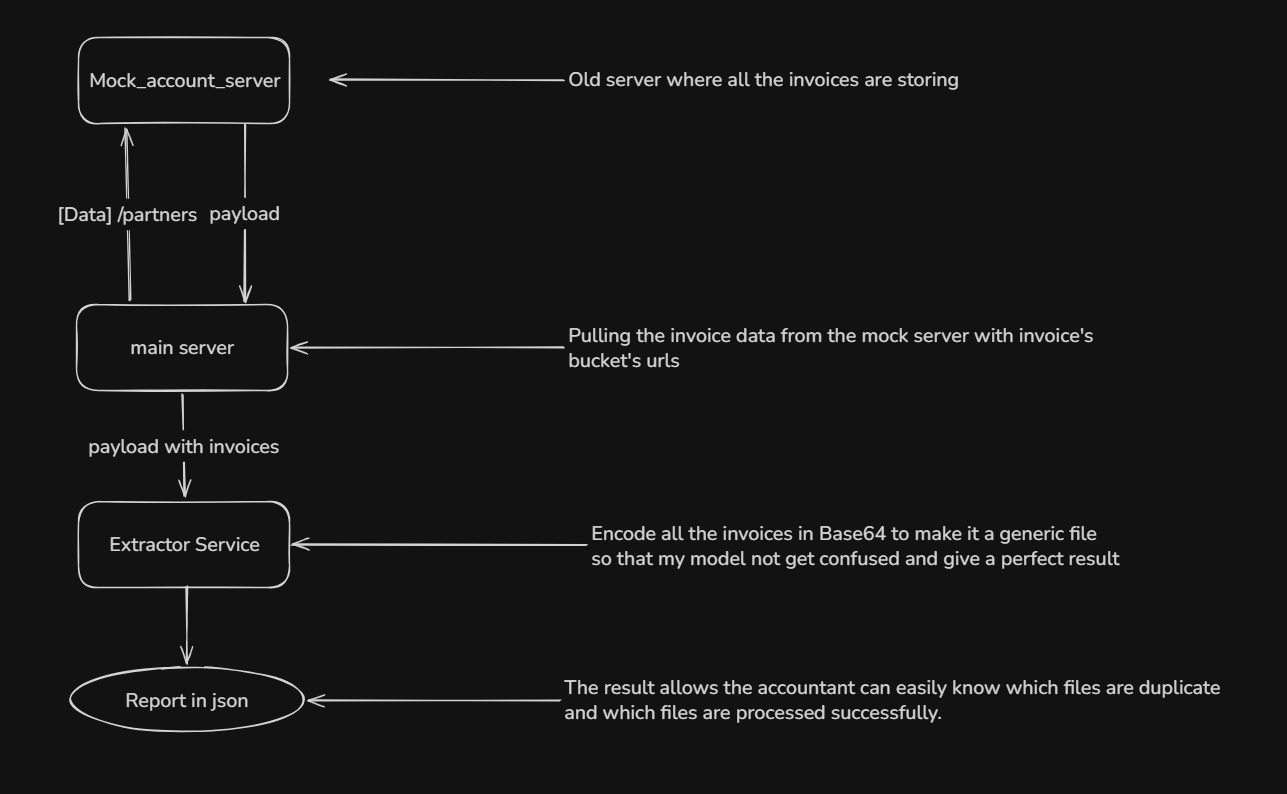
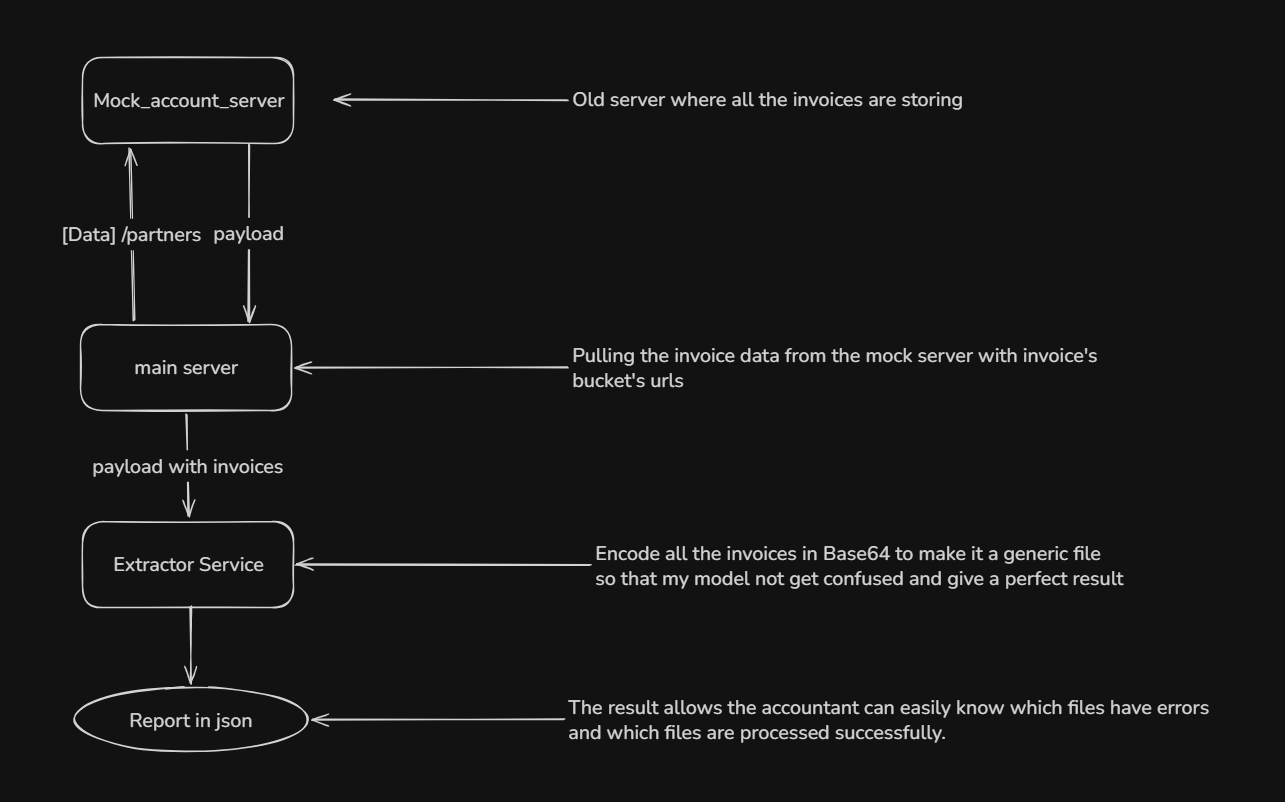
changed md

Changed region(s): [[0.0311, 0.0302, 0.965, 0.937], [0.4358, 0.0907, 0.7471, 0.1511], [0.0311, 0.8766, 0.0623, 0.9068]]

diff --git a/readme.md b/readme.md
@@ -7,3 +7,26 @@
 ## Result (Took 40.64 seconds to complete)
 
 ![Result summary](assests/result.png)
+
+## Conclusion
+
+Based on the 12 provided sample invoices, the automated pipeline successfully processed and registered 7 files, while 5 files were gracefully rejected by the mock API's strict business logic. 
+
+### Succeeded Files (7)
+These files were accurately extracted by the Vision-Language Model, passed strict Pydantic schema validation, and mathematically matched the API's internal recalculations:
+- `invoice_03.pdf`
+- `invoice_05.jpg`
+- `invoice_06.jpg`
+- `invoice_08.jpg`
+- `invoice_10.jpg`
+- `invoice_11.jpg`
+- `invoice_12.jpg`
+
+### Flagged for Human Review (5)
+These files successfully completed the AI extraction phase but were correctly rejected by the API's defensive traps. In a production environment, these would automatically be routed to an accountant's "Needs Human Review" queue:
+
+* **Duplicate Invoices (`invoice_01.pdf`, `invoice_04.jpg`, `invoice_07.jpg`):** Rejected with a `409 DUPLICATE_INVOICE` error. The API successfully caught that these invoice numbers were already registered for these specific partners, proving the system prevents double-payments.
+* **Math Discrepancy (`invoice_02.pdf`):** Rejected with an `AMOUNT_MISMATCH` error. The printed subtotal extracted from the invoice did not mathematically match the sum of its extracted line items.
+* **Rounding Edge Case (`invoice_09.pdf`):** Rejected with an `AMOUNT_MISMATCH` error due to a 1-yen difference in the total amount. This successfully caught a classic accounting edge case where the supplier's line-item tax rounding rules differ from the API's subtotal-level `math.floor()` tax calculation.
+
+By allowing the API to act as the final mathematical source of truth, the pipeline ensures no malformed or logically inconsistent data is ever blindly registered into the accounting system.
